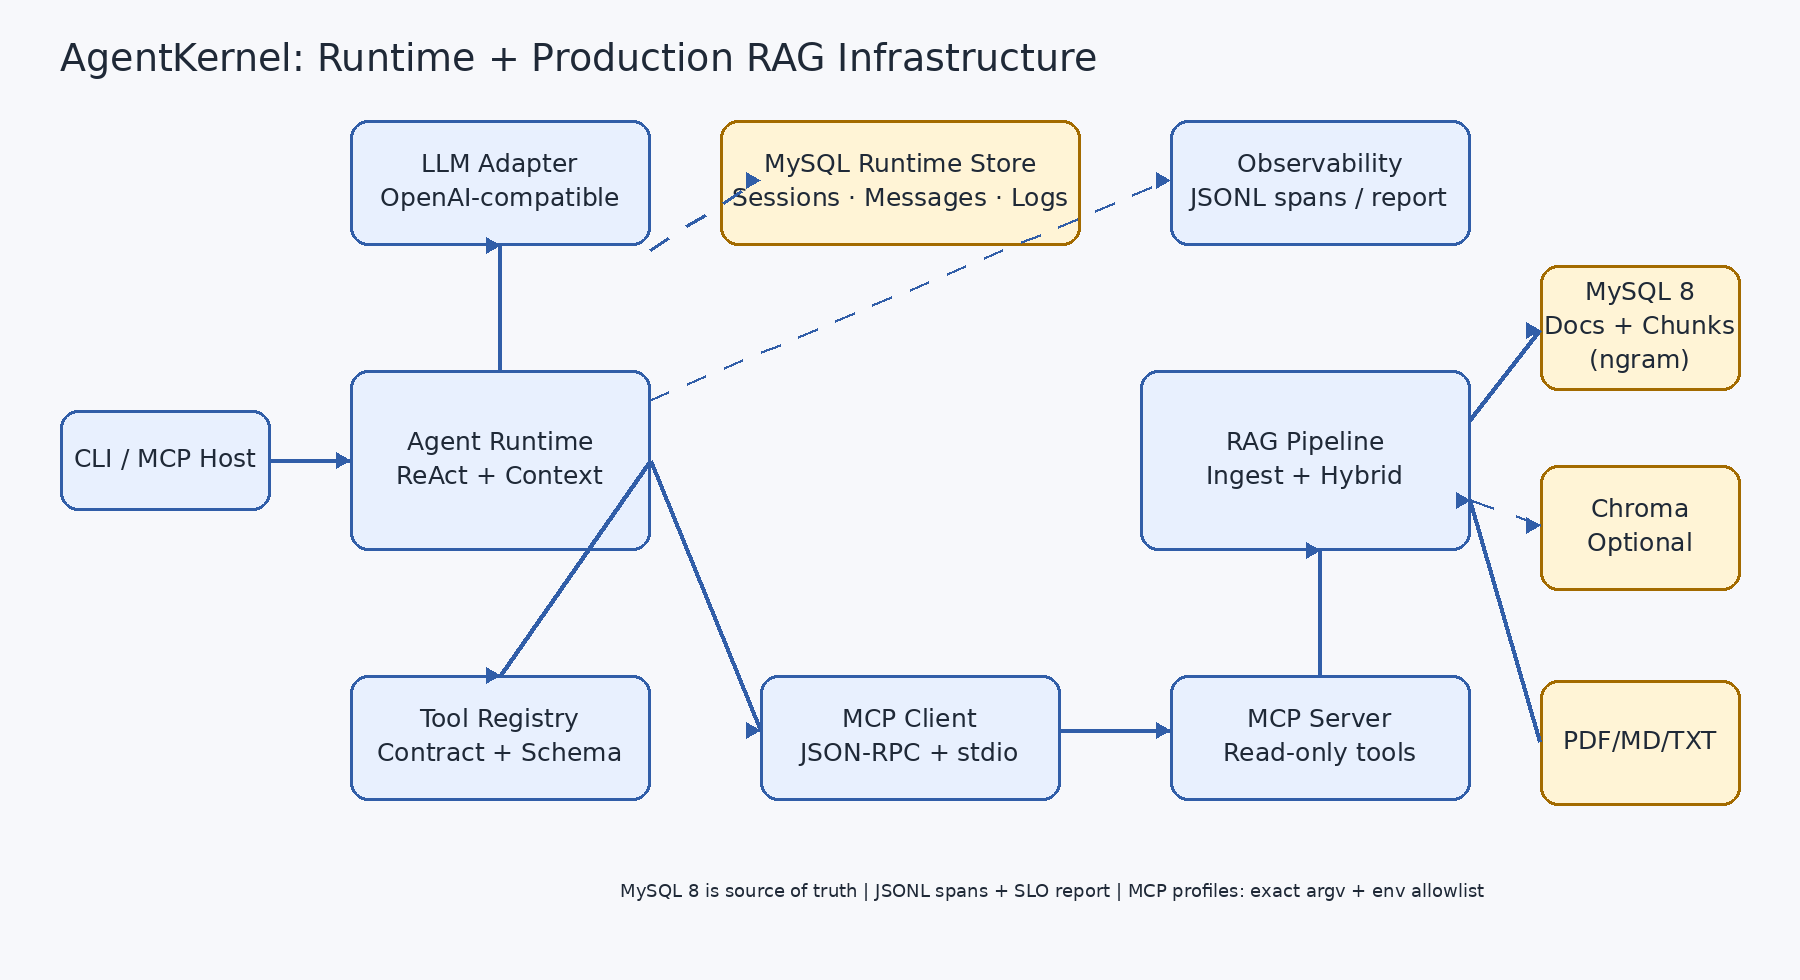
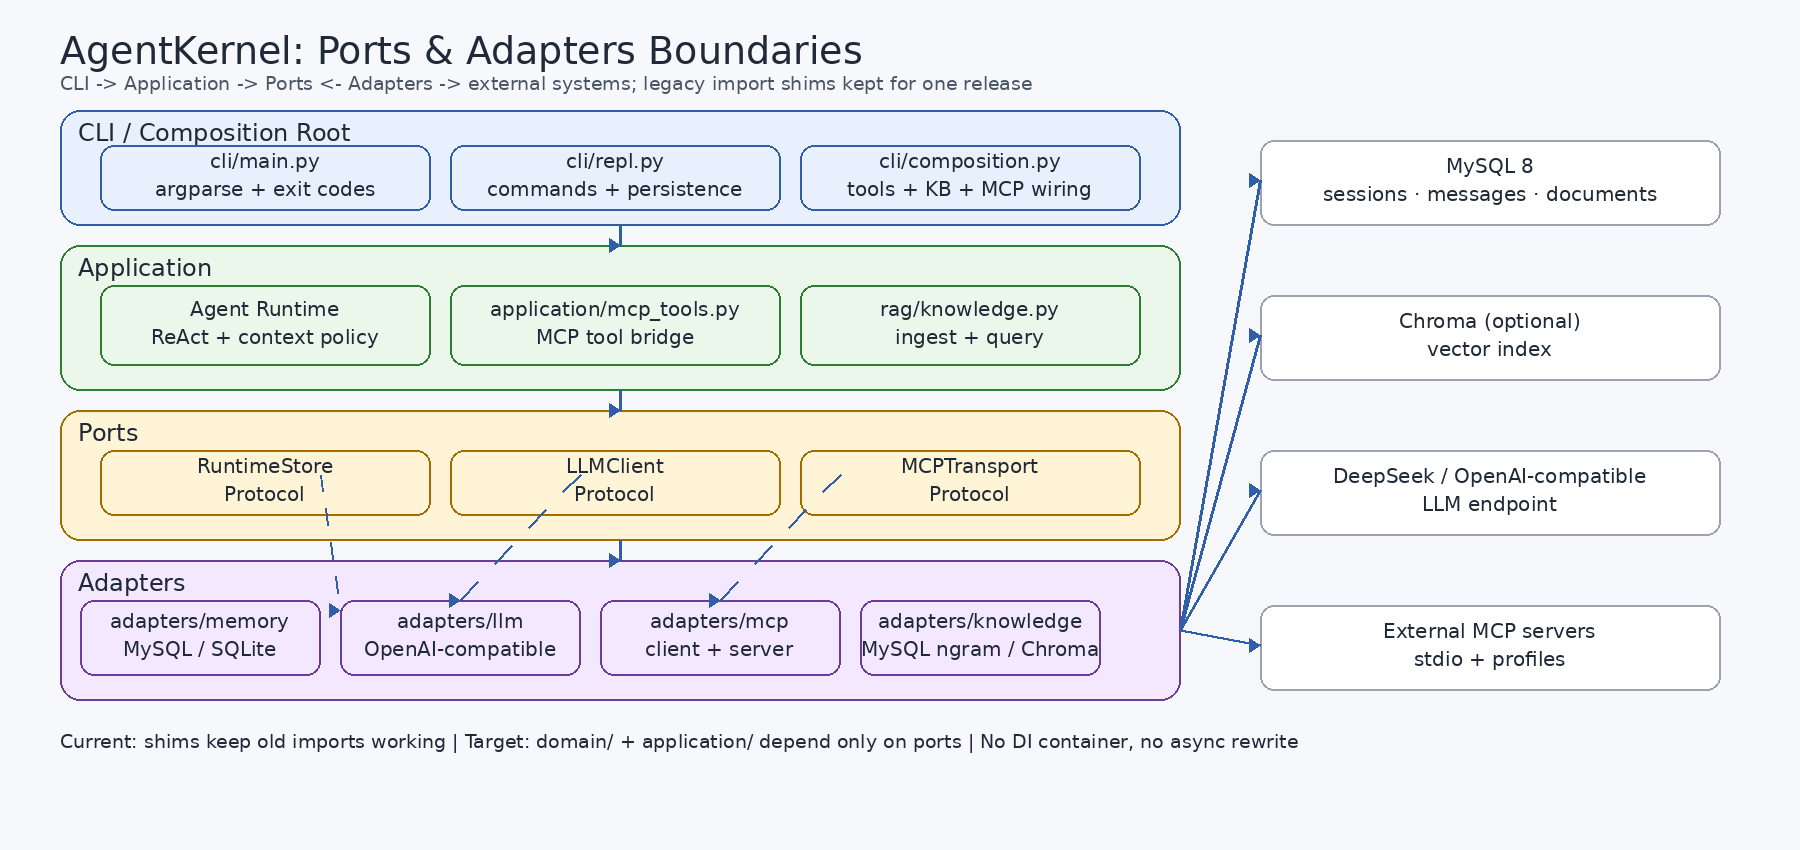
test(architecture): add layering assertions and refresh diagrams (A6)

Changed region(s): [[0.0311, 0.0306, 0.9644, 0.8259], [0.0311, 0.8565, 0.84, 0.9176], [0.7156, 0.6118, 0.7467, 0.6424]]

diff --git a/docs/render_architecture.py b/docs/render_architecture.py
@@ -1,4 +1,4 @@
-"""Render architecture.mmd's production diagram without a browser runtime."""
+"""Render architecture.mmd's layered boundary diagram without a browser runtime."""
 
 from __future__ import annotations
 
@@ -6,13 +6,16 @@ from pathlib import Path
 
 from PIL import Image, ImageDraw, ImageFont
 
-WIDTH, HEIGHT = 1800, 980
+WIDTH, HEIGHT = 1800, 850
 BG = "#f7f8fb"
 CORE = "#e8f0fe"
-STORAGE = "#fff4d6"
+APP = "#eaf7ea"
+PORT = "#fff4d6"
+ADAPTER = "#f3e8ff"
+EXTERNAL = "#ffffff"
 INK = "#1f2937"
 EDGE = "#315ea8"
-STORAGE_EDGE = "#a36b00"
+MUTED = "#cbd5e1"
 
 
 def _font(size: int) -> ImageFont.FreeTypeFont | ImageFont.ImageFont:
@@ -29,18 +32,24 @@ def _font(size: int) -> ImageFont.FreeTypeFont | ImageFont.ImageFont:
 def _box(
     draw: ImageDraw.ImageDraw, xy: tuple[int, int, int, int], label: str, fill: str, outline: str
 ) -> None:
-    draw.rounded_rectangle(xy, radius=18, fill=fill, outline=outline, width=3)
+    draw.rounded_rectangle(xy, radius=14, fill=fill, outline=outline, width=2)
     left, top, right, bottom = xy
     lines = label.split("\n")
-    font = _font(25)
-    line_height = 34
-    total_height = line_height * len(lines)
-    y = (top + bottom - total_height) // 2
+    font = _font(20)
+    line_height = 28
+    y = (top + bottom - line_height * len(lines)) // 2
     for line in lines:
         bounds = draw.textbbox((0, 0), line, font=font)
         x = (left + right - (bounds[2] - bounds[0])) // 2
         draw.text((x, y), line, fill=INK, font=font)
         y += line_height
+
+
+def _band(
+    draw: ImageDraw.ImageDraw, xy: tuple[int, int, int, int], title: str, fill: str, outline: str
+) -> None:
+    draw.rounded_rectangle(xy, radius=20, fill=fill, outline=outline, width=2)
+    draw.text((xy[0] + 18, xy[1] + 8), title, fill=INK, font=_font(24))
 
 
 def _arrow(
@@ -49,7 +58,7 @@ def _arrow(
     if dashed:
         x1, y1 = start
         x2, y2 = end
-        steps = max(abs(x2 - x1), abs(y2 - y1)) // 18
+        steps = max(abs(x2 - x1), abs(y2 - y1)) // 16
         for index in range(max(1, steps)):
             if index % 2 == 0:
                 a = index / max(1, steps)
@@ -62,65 +71,78 @@ def _arrow(
                         y1 + (y2 - y1) * b,
                     ),
                     fill=EDGE,
-                    width=3,
+                    width=2,
                 )
     else:
-        draw.line((*start, *end), fill=EDGE, width=4)
+        draw.line((*start, *end), fill=EDGE, width=3)
     x, y = end
-    draw.polygon([(x, y), (x - 14, y - 8), (x - 14, y + 8)], fill=EDGE)
+    draw.polygon([(x, y), (x - 11, y - 7), (x - 11, y + 7)], fill=EDGE)
 
 
 def main() -> None:
     image = Image.new("RGB", (WIDTH, HEIGHT), BG)
     draw = ImageDraw.Draw(image)
-    title_font = _font(38)
+    draw.text((60, 28), "AgentKernel: Ports & Adapters Boundaries", fill=INK, font=_font(38))
     draw.text(
-        (60, 35), "AgentKernel: Runtime + Production RAG Infrastructure", fill=INK, font=title_font
+        (60, 72),
+        "CLI -> Application -> Ports <- Adapters -> external systems; legacy import shims kept for one release",
+        fill="#4b5563",
+        font=_font(19),
     )
 
-    boxes = {
-        "user": (60, 410, 270, 510, "CLI / MCP Host", CORE, EDGE),
-        "agent": (350, 370, 650, 550, "Agent Runtime\nReAct + Context", CORE, EDGE),
-        "llm": (350, 120, 650, 245, "LLM Adapter\nOpenAI-compatible", CORE, EDGE),
-        "registry": (350, 675, 650, 800, "Tool Registry\nContract + Schema", CORE, EDGE),
-        "client": (760, 675, 1060, 800, "MCP Client\nJSON-RPC + stdio", CORE, EDGE),
-        "server": (1170, 675, 1470, 800, "MCP Server\nRead-only tools", CORE, EDGE),
-        "rag": (1140, 370, 1470, 550, "RAG Pipeline\nIngest + Hybrid", CORE, EDGE),
-        "catalog": (1540, 265, 1740, 390, "MySQL 8\nDocs + Chunks\n(ngram)", STORAGE, STORAGE_EDGE),
-        "vector": (1540, 465, 1740, 590, "Chroma\nOptional", STORAGE, STORAGE_EDGE),
-        "source": (1540, 680, 1740, 805, "PDF/MD/TXT", STORAGE, STORAGE_EDGE),
-        "obs": (1170, 120, 1470, 245, "Observability\nJSONL spans / report", CORE, EDGE),
-        "memory": (
-            720,
-            120,
-            1080,
-            245,
-            "MySQL Runtime Store\nSessions · Messages · Logs",
-            STORAGE,
-            STORAGE_EDGE,
-        ),
-    }
-    for left, top, right, bottom, label, fill, outline in boxes.values():
-        _box(draw, (left, top, right, bottom), label, fill, outline)
+    bands = [
+        ((60, 110, 1180, 225), "CLI / Composition Root", CORE, EDGE),
+        ((60, 245, 1180, 390), "Application", APP, "#2f7d32"),
+        ((60, 410, 1180, 540), "Ports", PORT, "#a36b00"),
+        ((60, 560, 1180, 700), "Adapters", ADAPTER, "#6a3d9a"),
+    ]
+    for band in bands:
+        _band(draw, band[0], band[1], band[2], band[3])
 
-    _arrow(draw, (270, 460), (350, 460))
-    _arrow(draw, (500, 370), (500, 245))
-    _arrow(draw, (650, 460), (760, 730))
-    _arrow(draw, (650, 460), (500, 675))
-    _arrow(draw, (1060, 730), (1170, 730))
-    _arrow(draw, (1320, 675), (1320, 550))
-    _arrow(draw, (1540, 742), (1470, 500))
-    _arrow(draw, (1470, 420), (1540, 330))
-    _arrow(draw, (1470, 500), (1540, 525), dashed=True)
-    _arrow(draw, (650, 250), (760, 180), dashed=True)
-    _arrow(draw, (650, 400), (1170, 180), dashed=True)
+    boxes = [
+        ((100, 145, 430, 210), "cli/main.py\nargparse + exit codes", CORE, EDGE),
+        ((450, 145, 780, 210), "cli/repl.py\ncommands + persistence", CORE, EDGE),
+        ((800, 145, 1140, 210), "cli/composition.py\ntools + KB + MCP wiring", CORE, EDGE),
+        ((100, 285, 430, 365), "Agent Runtime\nReAct + context policy", APP, "#2f7d32"),
+        ((450, 285, 780, 365), "application/mcp_tools.py\nMCP tool bridge", APP, "#2f7d32"),
+        ((800, 285, 1140, 365), "rag/knowledge.py\ningest + query", APP, "#2f7d32"),
+        ((100, 450, 430, 515), "RuntimeStore\nProtocol", PORT, "#a36b00"),
+        ((450, 450, 780, 515), "LLMClient\nProtocol", PORT, "#a36b00"),
+        ((800, 450, 1140, 515), "MCPTransport\nProtocol", PORT, "#a36b00"),
+        ((80, 600, 320, 675), "adapters/memory\nMySQL / SQLite", ADAPTER, "#6a3d9a"),
+        ((340, 600, 580, 675), "adapters/llm\nOpenAI-compatible", ADAPTER, "#6a3d9a"),
+        ((600, 600, 840, 675), "adapters/mcp\nclient + server", ADAPTER, "#6a3d9a"),
+        ((860, 600, 1100, 675), "adapters/knowledge\nMySQL ngram / Chroma", ADAPTER, "#6a3d9a"),
+    ]
+    for box in boxes:
+        _box(draw, box[0], box[1], box[2], box[3])
 
-    note_font = _font(18)
+    external = [
+        ((1260, 140, 1720, 225), "MySQL 8\nsessions · messages · documents", EXTERNAL, "#9ca3af"),
+        ((1260, 295, 1720, 380), "Chroma (optional)\nvector index", EXTERNAL, "#9ca3af"),
+        ((1260, 450, 1720, 535), "DeepSeek / OpenAI-compatible\nLLM endpoint", EXTERNAL, "#9ca3af"),
+        ((1260, 605, 1720, 690), "External MCP servers\nstdio + profiles", EXTERNAL, "#9ca3af"),
+    ]
+    for box in external:
+        _box(draw, box[0], box[1], box[2], box[3])
+
+    for y in (225, 390, 540):
+        _arrow(draw, (620, y), (620, y + 20))
+
+    _arrow(draw, (320, 475), (340, 610), dashed=True)
+    _arrow(draw, (580, 475), (460, 600), dashed=True)
+    _arrow(draw, (840, 475), (720, 600), dashed=True)
+    _arrow(draw, (1180, 630), (1260, 180))
+    _arrow(draw, (1180, 630), (1260, 335))
+    _arrow(draw, (1180, 630), (1260, 490))
+    _arrow(draw, (1180, 630), (1260, 645))
+
     draw.text(
-        (620, 880),
-        "MySQL 8 is source of truth | JSONL spans + SLO report | MCP profiles: exact argv + env allowlist",
+        (60, 730),
+        "Current: shims keep old imports working | Target: domain/ + application/ depend only on ports | "
+        "No DI container, no async rewrite",
         fill=INK,
-        font=note_font,
+        font=_font(19),
     )
     output = Path(__file__).with_name("architecture.png")
     image.save(output, "PNG", optimize=True)

diff --git a/tests/test_architecture.py b/tests/test_architecture.py
@@ -1,0 +1,71 @@
+"""A6：分层依赖断言（AST，不引入 import-linter）。
+
+规则：
+- ports 不得依赖 adapters/cli/application；
+- application 不得依赖 adapters/cli；
+- adapters 不得依赖 cli；
+- RAG 的纯模型/加载/分块模块不得依赖 adapters/cli；
+- cli/main.py 不直接 import adapters（装配只在 cli/composition.py）。
+"""
+
+from __future__ import annotations
+
+import ast
+from pathlib import Path
+
+ROOT = Path(__file__).resolve().parents[1] / "src" / "agentkernel"
+
+
+def _imports(path: Path) -> set[str]:
+    tree = ast.parse(path.read_text(encoding="utf-8"))
+    modules: set[str] = set()
+    for node in ast.walk(tree):
+        if isinstance(node, ast.Import):
+            modules.update(alias.name for alias in node.names)
+        elif isinstance(node, ast.ImportFrom) and node.module:
+            modules.add(node.module)
+    return modules
+
+
+def _package_modules(package: str) -> list[Path]:
+    return [p for p in (ROOT / package).rglob("*.py") if "__pycache__" not in p.parts]
+
+
+def _violations(package: str, forbidden: set[str]) -> list[str]:
+    bad: list[str] = []
+    for path in _package_modules(package):
+        for module in _imports(path):
+            if any(module == item or module.startswith(item + ".") for item in forbidden):
+                bad.append(f"{path.relative_to(ROOT)}: {module}")
+    return bad
+
+
+def test_ports_do_not_depend_on_outer_layers() -> None:
+    bad = _violations(
+        "ports", {"agentkernel.adapters", "agentkernel.cli", "agentkernel.application"}
+    )
+    assert bad == []
+
+
+def test_application_does_not_depend_on_adapters_or_cli() -> None:
+    bad = _violations("application", {"agentkernel.adapters", "agentkernel.cli"})
+    assert bad == []
+
+
+def test_adapters_do_not_depend_on_cli() -> None:
+    assert _violations("adapters", {"agentkernel.cli"}) == []
+
+
+def test_rag_core_is_free_of_adapters_and_cli() -> None:
+    bad: list[str] = []
+    for name in ("models.py", "loaders.py", "chunking.py"):
+        path = ROOT / "rag" / name
+        for module in _imports(path):
+            if module.startswith(("agentkernel.adapters", "agentkernel.cli")):
+                bad.append(f"{path.relative_to(ROOT)}: {module}")
+    assert bad == []
+
+
+def test_cli_main_does_not_import_adapters_directly() -> None:
+    modules = _imports(ROOT / "cli" / "main.py")
+    assert not [m for m in modules if m.startswith("agentkernel.adapters")]

diff --git a/docs/status.md b/docs/status.md
@@ -8,8 +8,8 @@
 | 维度 | 状态 | 证据 |
 |---|---|---|
 | 定位 | Python CLI Agent Runtime 研究原型（面试作品），按可上生产的工程标准建设 | 边界见 [technical-scope-and-boundary.md](./technical-scope-and-boundary.md) |
-| 架构 | A0/A0.5 文档 + A1 组合根 + A2 Memory + A3 LLM/事件 + A4 RAG + A5 MCP 拆分；CLI、D4、JSONL/OTLP、检索/工具行为不变 | [ADR-003](./Addendum/adr-003-production-architecture.md) |
-| 测试 | **181 个测试**；本地 `175 passed / 6 skipped`（无 DSN），CI `180 passed / 1 deselected`（live）/ `0 skipped`；覆盖率 **83%**（CI 门槛 80%） | `pytest -q`；CI workflow 用 `grep SKIPPED` 强制 0 skip |
+| 架构 | A0/A0.5 文档 + A1 组合根 + A2 Memory + A3 LLM/事件 + A4 RAG + A5 MCP + A6 分层断言/架构图；CLI、D4、JSONL/OTLP、检索/工具行为不变 | [ADR-003](./Addendum/adr-003-production-architecture.md) |
+| 测试 | **186 个测试**；本地 `180 passed / 6 skipped`（无 DSN），CI `185 passed / 1 deselected`（live）/ `0 skipped`；覆盖率 **83%**（CI 门槛 80%） | `pytest -q`；CI workflow 用 `grep SKIPPED` 强制 0 skip |
 | 评测 | `make eval` → **50/50**（mock golden set，5 类 ×10）；`make eval-live` 20 条真实调用数据就绪 | 本机实测 |
 | 真实模型 | 8 次 live 调用（含 `make test-live` 冒烟，allowlist 生效后复测通过），tokens/cost 非空；累计 < $0.001 | [reports/2026-W44.md](./reports/2026-W44.md) |
 | CI | GitHub Actions 4 个 job：`test`（MySQL 8 service）、`eval-minimal`、`security`（gitleaks/semgrep/pip-audit）、`docker` | [CI](https://github.com/ikun-ikun1/AgentKernel/actions/workflows/ci.yml) |

diff --git a/docs/Addendum/adr-003-production-architecture.md b/docs/Addendum/adr-003-production-architecture.md
@@ -2,7 +2,7 @@
 
 ## 状态
 
-Proposed（A0 文档先行；A1–A6 分批实施，不做大爆炸重构）
+Accepted（A0→A6 分批完成；旧 import shim 保留一个版本后删除，不改变 CLI/schema/安全/D4 语义）
 
 ## 背景
 
@@ -110,7 +110,7 @@ domain        ← application ← ports
 | **A3** | `LLMClient`、`EventSink` port；OpenAI 适配器；事件组装从 Agent 拆出 | ✅ 已完成：`ports/llm.py` + `adapters/llm/openai_compatible.py`（旧 `runtime/llm.py` shim）；事件组装移到 `observability/events.py`；181 tests 绿，JSONL/OTLP 字段与 budget 事件不变 |
 | **A4** | 拆 `rag/ingest.py`：loaders/chunking/indexes/application；MySQL/Chroma 适配器 | ✅ 已完成：`rag/{models,loaders,chunking,indexes,knowledge}.py`；MySQL ngram/Chroma 移到 `adapters/knowledge/`；旧 `rag/{ingest,mysql_store}.py` shim；RAG 测试全绿 |
 | **A5** | MCP 拆 protocol/transport/handler/bridge | ✅ 已完成：`protocol/mcp_framing.py`、`adapters/mcp/{client,knowledge_server}.py`、`application/mcp_tools.py`、`ports/mcp_transport.py`；旧 `mcp/{framing,client,server}.py` shim；MCP/安全测试全绿 |
-| **A6** | 架构测试 + 目标架构图 + 文档回填 | `tests/test_architecture.py` 绿；`docs/architecture.mmd` 反映目标边界 |
+| **A6** | 架构测试 + 目标架构图 + 文档回填 | ✅ 已完成：`tests/test_architecture.py` 5 条分层断言；`architecture.mmd`/PNG 改为 ports & adapters 分层图；ADR 状态 Accepted |
 
 原则：
 

diff --git a/README.md b/README.md
@@ -9,7 +9,7 @@
 
 | 维度 | 数字 / 状态 |
 |---|---|
-| 测试 | **181 个**：本地 `175 passed / 6 skipped`（无 MySQL DSN），CI `180 passed / 1 deselected`（live）/ `0 skipped`；覆盖率 **83%**（CI 门槛 80%，核心模块 ≥90%） |
+| 测试 | **186 个**：本地 `180 passed / 6 skipped`（无 MySQL DSN），CI `185 passed / 1 deselected`（live）/ `0 skipped`；覆盖率 **83%**（CI 门槛 80%，核心模块 ≥90%） |
 | 评测 | `make eval` → **50/50**（mock golden set）；`make eval-live` → 20 条真实调用 |
 | 真实模型 | 8 次 live 调用，tokens / cost 记账非空，成本 < $0.001 |
 | CI | GitHub Actions：`test`（MySQL 8 service + 0-skip 强制）、`eval-minimal`、`security`、`docker` |
@@ -130,7 +130,7 @@ AgentKernel/
 ├── src/agentkernel/         # runtime / tools / memory / rag / mcp / utils
 ├── migrations/versions/     # 0001 初始 schema、0002 tool_logs.duration_ms
 ├── scripts/                 # report / trace / prune
-├── tests/                   # 181 个测试（含 MySQL 集成、迁移往返、D4 多进程、备份演练、注入隔离）
+├── tests/                   # 186 个测试（含 MySQL 集成、迁移往返、D4 多进程、备份演练、注入隔离）
 └── docs/                    # status、production-standard(-gap)、架构、历史里程碑、附录
 ```
 

diff --git a/docs/README.md b/docs/README.md
@@ -19,10 +19,10 @@
 |---|---|
 | [project-background.md](./project-background.md) | 为什么做、与实习项目 AI Agent Workbench 的互补关系 |
 | [technical-scope-and-boundary.md](./technical-scope-and-boundary.md) | 技术选型、模块边界、硬边界、安全边界 |
-| [architecture.mmd](./architecture.mmd) / [architecture.png](./architecture.png) | 当前架构图（MySQL 事实源 + 观测 + MCP profile）；目标边界见 ADR-003 |
+| [architecture.mmd](./architecture.mmd) / [architecture.png](./architecture.png) | 当前分层架构图（CLI → Application → Ports ← Adapters；含旧 import shim 标注） |
 | [Addendum/adr-001-mysql-primary-storage.md](./Addendum/adr-001-mysql-primary-storage.md) | ADR-001：MySQL 8 作为主存储 |
 | [Addendum/adr-002-cross-process-session-writes.md](./Addendum/adr-002-cross-process-session-writes.md) | ADR-002：跨进程会话写一致性（D4，Accepted） |
-| [Addendum/adr-003-production-architecture.md](./Addendum/adr-003-production-architecture.md) | ADR-003：生产级模块边界与增量重构（架构 A0，Proposed） |
+| [Addendum/adr-003-production-architecture.md](./Addendum/adr-003-production-architecture.md) | ADR-003：生产级模块边界与增量重构（A1–A6，Accepted） |
 
 ## 3. 运行与交付
 

diff --git a/CHANGELOG.md b/CHANGELOG.md
@@ -2,6 +2,12 @@
 
 本项目遵循 [Semantic Versioning](https://semver.org/)；格式参考 [Keep a Changelog](https://keepachangelog.com/zh-CN/1.1.0/)。
 
+## [Unreleased]
+
+### Changed
+
+- 架构 A1–A6：CLI 组合根、Memory/LLM/MCP 端口与适配器、RAG 拆分、事件组装外移；旧 import shim 保留一个版本，CLI/schema/安全/D4 行为不变。
+
 ## [0.2.0] - 2026-10-30
 
 ### Added
